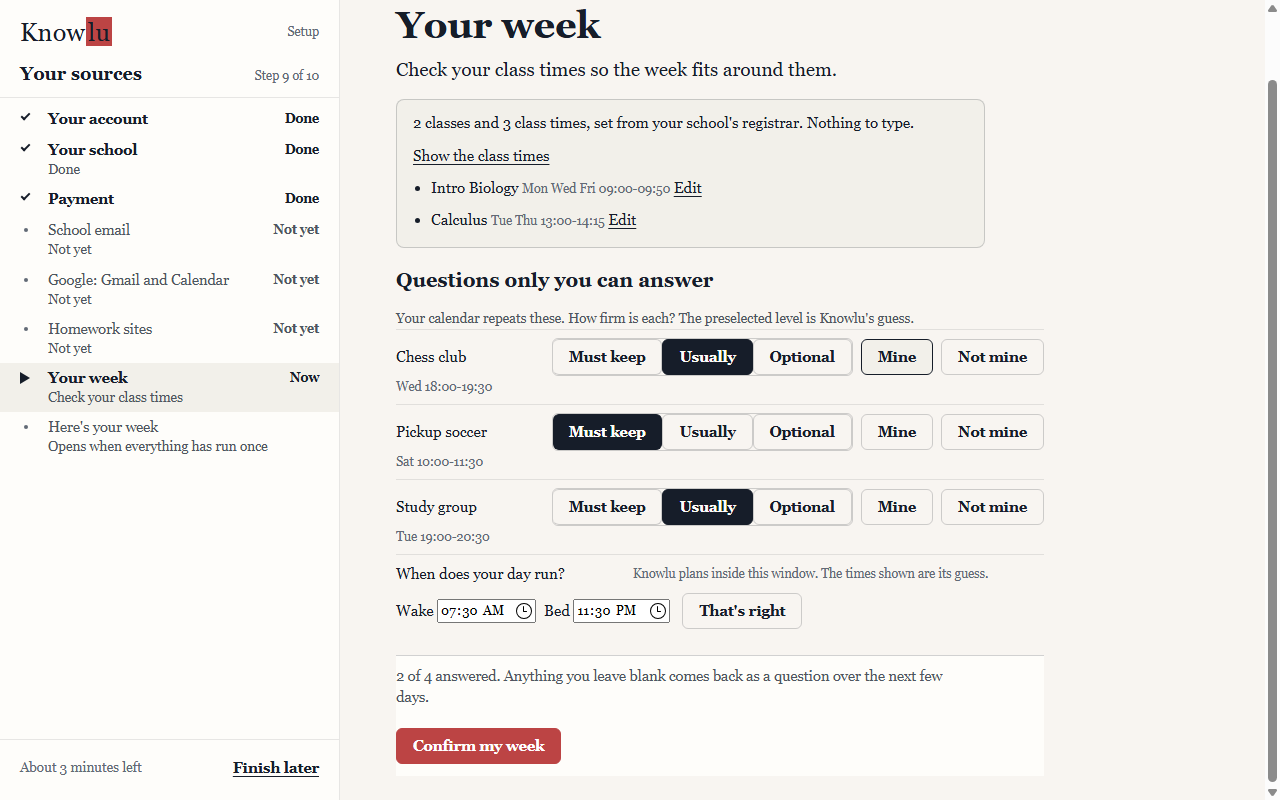
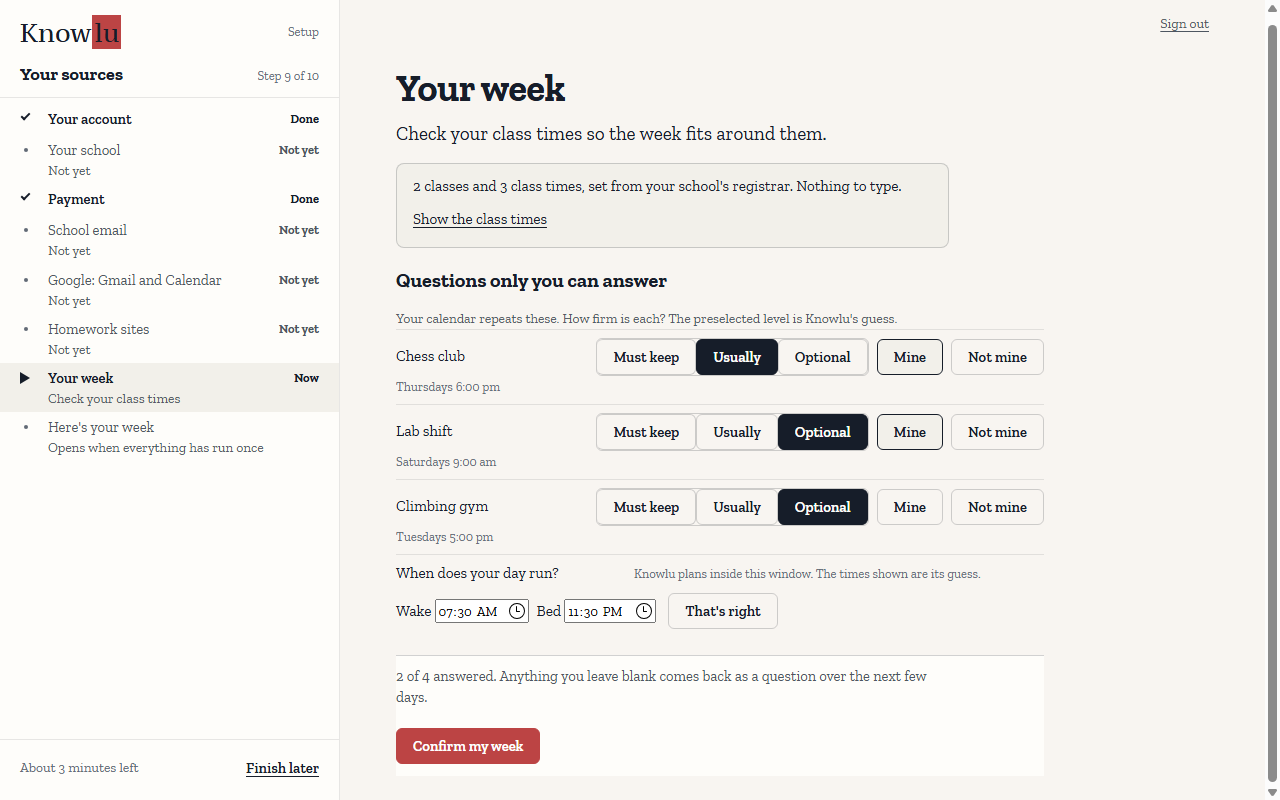
fix(o3 F11p3): a firmness press shows Mine pressed and Mine twice clears the row; shots index to UTF-8; main shots re-shot (r2 m1)
Claude-Session: https://claude.ai/code/session_01EtveU7wxFVygY3Msga61qk

diff --git a/app/static/onboarding.js b/app/static/onboarding.js
@@ -682,6 +682,18 @@
   function confirmBarLine10(n, m) { return n + " of " + m + " answered. Anything you leave blank comes back as a question over the next few days."; }
   OB.summaryLine10 = summaryLine10; OB.splitProposals10 = splitProposals10; OB.firmnessHtml10 = firmnessHtml10;
   OB.winPair10 = winPair10; OB.confirmArg10 = confirmArg10; OB.windowFields10 = windowFields10; OB.windowArg10 = windowArg10; OB.answeredCount10 = answeredCount10; OB.confirmBarLine10 = confirmBarLine10;
+  // One rule for a press on a row: a firmness press is Mine (never over Not mine); a second Mine clears the row.
+  function rowAfter10(row, press) {
+    if (press === "level") { return { answer: row.answer === "not" ? "not" : "mine", picked: row.answer === "not" ? row.picked : true }; }
+    var next = row.answer === press ? "" : press;
+    return { answer: next, picked: next === "" || next === "not" ? false : row.picked };
+  }
+  OB.rowAfter10 = rowAfter10;
+  function setRow10(row, st) {
+    row.setAttribute("data-answer", st.answer);
+    if (st.picked) { row.setAttribute("data-picked", "1"); } else { row.removeAttribute("data-picked"); }
+    row.querySelectorAll("[data-act10]").forEach(function (x) { x.setAttribute("aria-pressed", String(x.getAttribute("data-act10") === st.answer)); });
+  }
   function rows10() {
     return Array.prototype.map.call(document.querySelectorAll("#ob-10-prop .ob-prop"), function (r) {
       return { key: r.getAttribute("data-key"), answer: r.getAttribute("data-answer"), level: r.getAttribute("data-level"), picked: r.getAttribute("data-picked") === "1" };
@@ -760,7 +772,8 @@
     var lv = e.target.closest(".ob-seg button"), b = e.target.closest("[data-act10]");
     if (lv && EL("ob-step-10")) {
       lv.closest(".ob-prop").setAttribute("data-level", lv.getAttribute("data-level"));
-      lv.closest(".ob-prop").setAttribute("data-picked", "1"); paintBar10();
+      var lr = lv.closest(".ob-prop");
+      setRow10(lr, rowAfter10({ answer: lr.getAttribute("data-answer") || "", picked: lr.getAttribute("data-picked") === "1" }, "level")); paintBar10();
       lv.parentNode.querySelectorAll("button").forEach(function (x) { x.setAttribute("aria-pressed", String(x === lv)); });
       return;
     }
@@ -780,9 +793,7 @@
     }
     if (!row) { return; }
     // A second press on the pressed button puts the row back to unanswered.
-    var next = row.getAttribute("data-answer") === act ? "" : act;
-    row.setAttribute("data-answer", next);
-    row.querySelectorAll("[data-act10]").forEach(function (x) { x.setAttribute("aria-pressed", String(x.getAttribute("data-act10") === next)); });
+    setRow10(row, rowAfter10({ answer: row.getAttribute("data-answer") || "", picked: row.getAttribute("data-picked") === "1" }, act));
     paintBar10();
   }
   function render10(status) {
